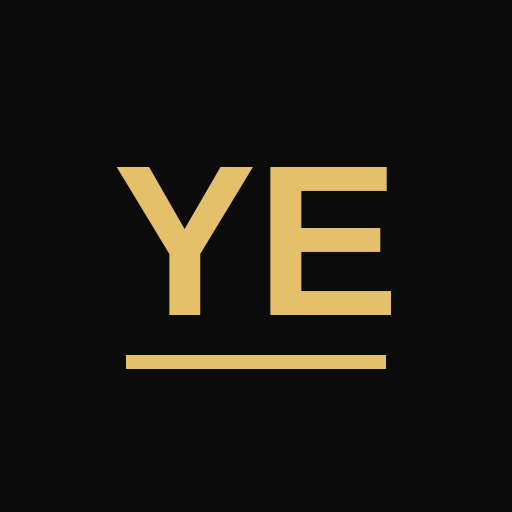
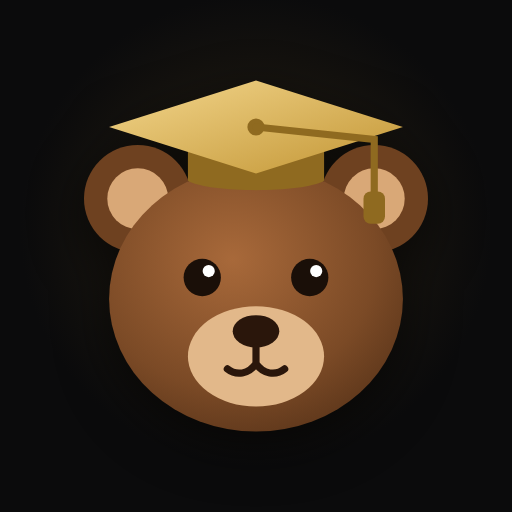
Icônes et aperçu de lien : l'ours à la place de « YE »
- icon-192, icon-512, apple-touch-icon : l'ours sur fond sombre avec un halo doré
- icon-maskable-512 : l'ours plus petit, dans la zone sûre des icônes Android
- og-image (1200 × 630) : titre, description, ours et bande des couleurs d'albums
- og:image?v=2 pour que WhatsApp, Discord… récupèrent la nouvelle image

Claude-Session: https://claude.ai/code/session_017PR3Sm7diVLEgVLaSeqVzb

diff --git a/index.html b/index.html
@@ -12,7 +12,7 @@
   <meta property="og:title" content="Kanye West / Ye — Discographie interactive" />
   <meta property="og:description" content="Albums, stats, samples, invités, classements, défi du jour et blind test." />
   <meta property="og:url" content="https://melcoloy.github.io/kanyewest/" />
-  <meta property="og:image" content="https://melcoloy.github.io/kanyewest/icons/og-image.png" />
+  <meta property="og:image" content="https://melcoloy.github.io/kanyewest/icons/og-image.png?v=2" />
   <meta property="og:image:width" content="1200" />
   <meta property="og:image:height" content="630" />
   <meta property="og:locale" content="fr_BE" />
